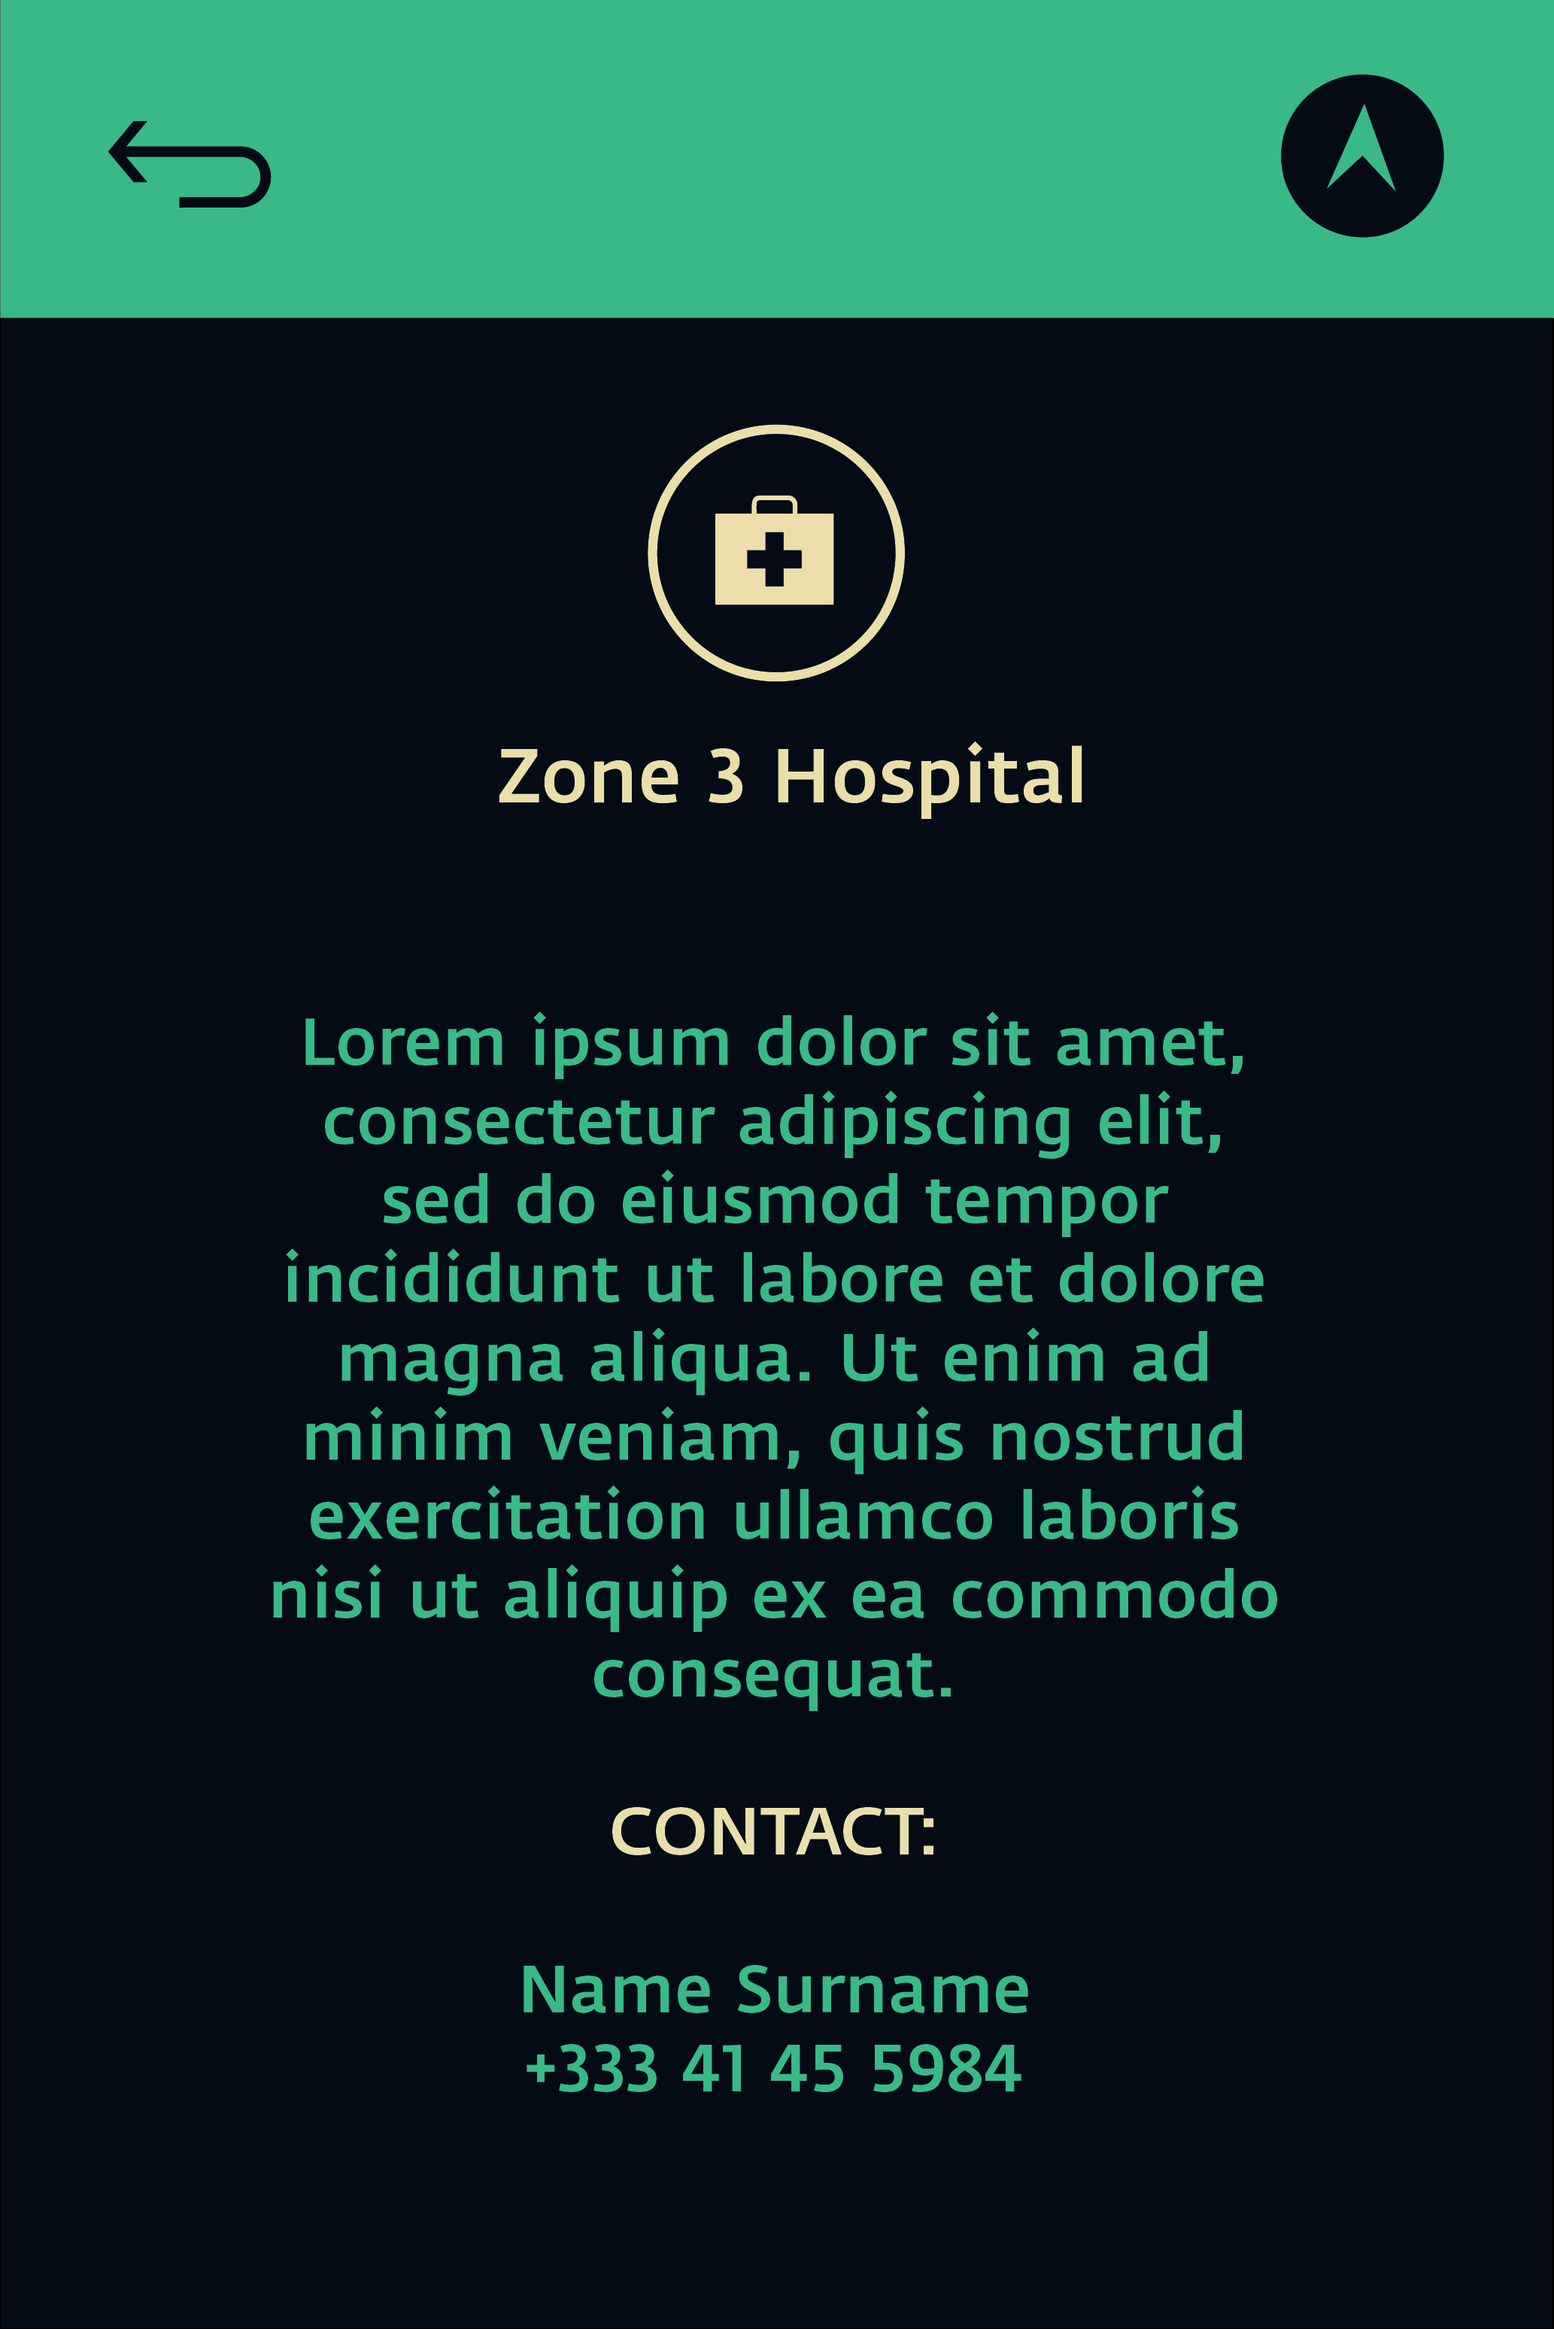
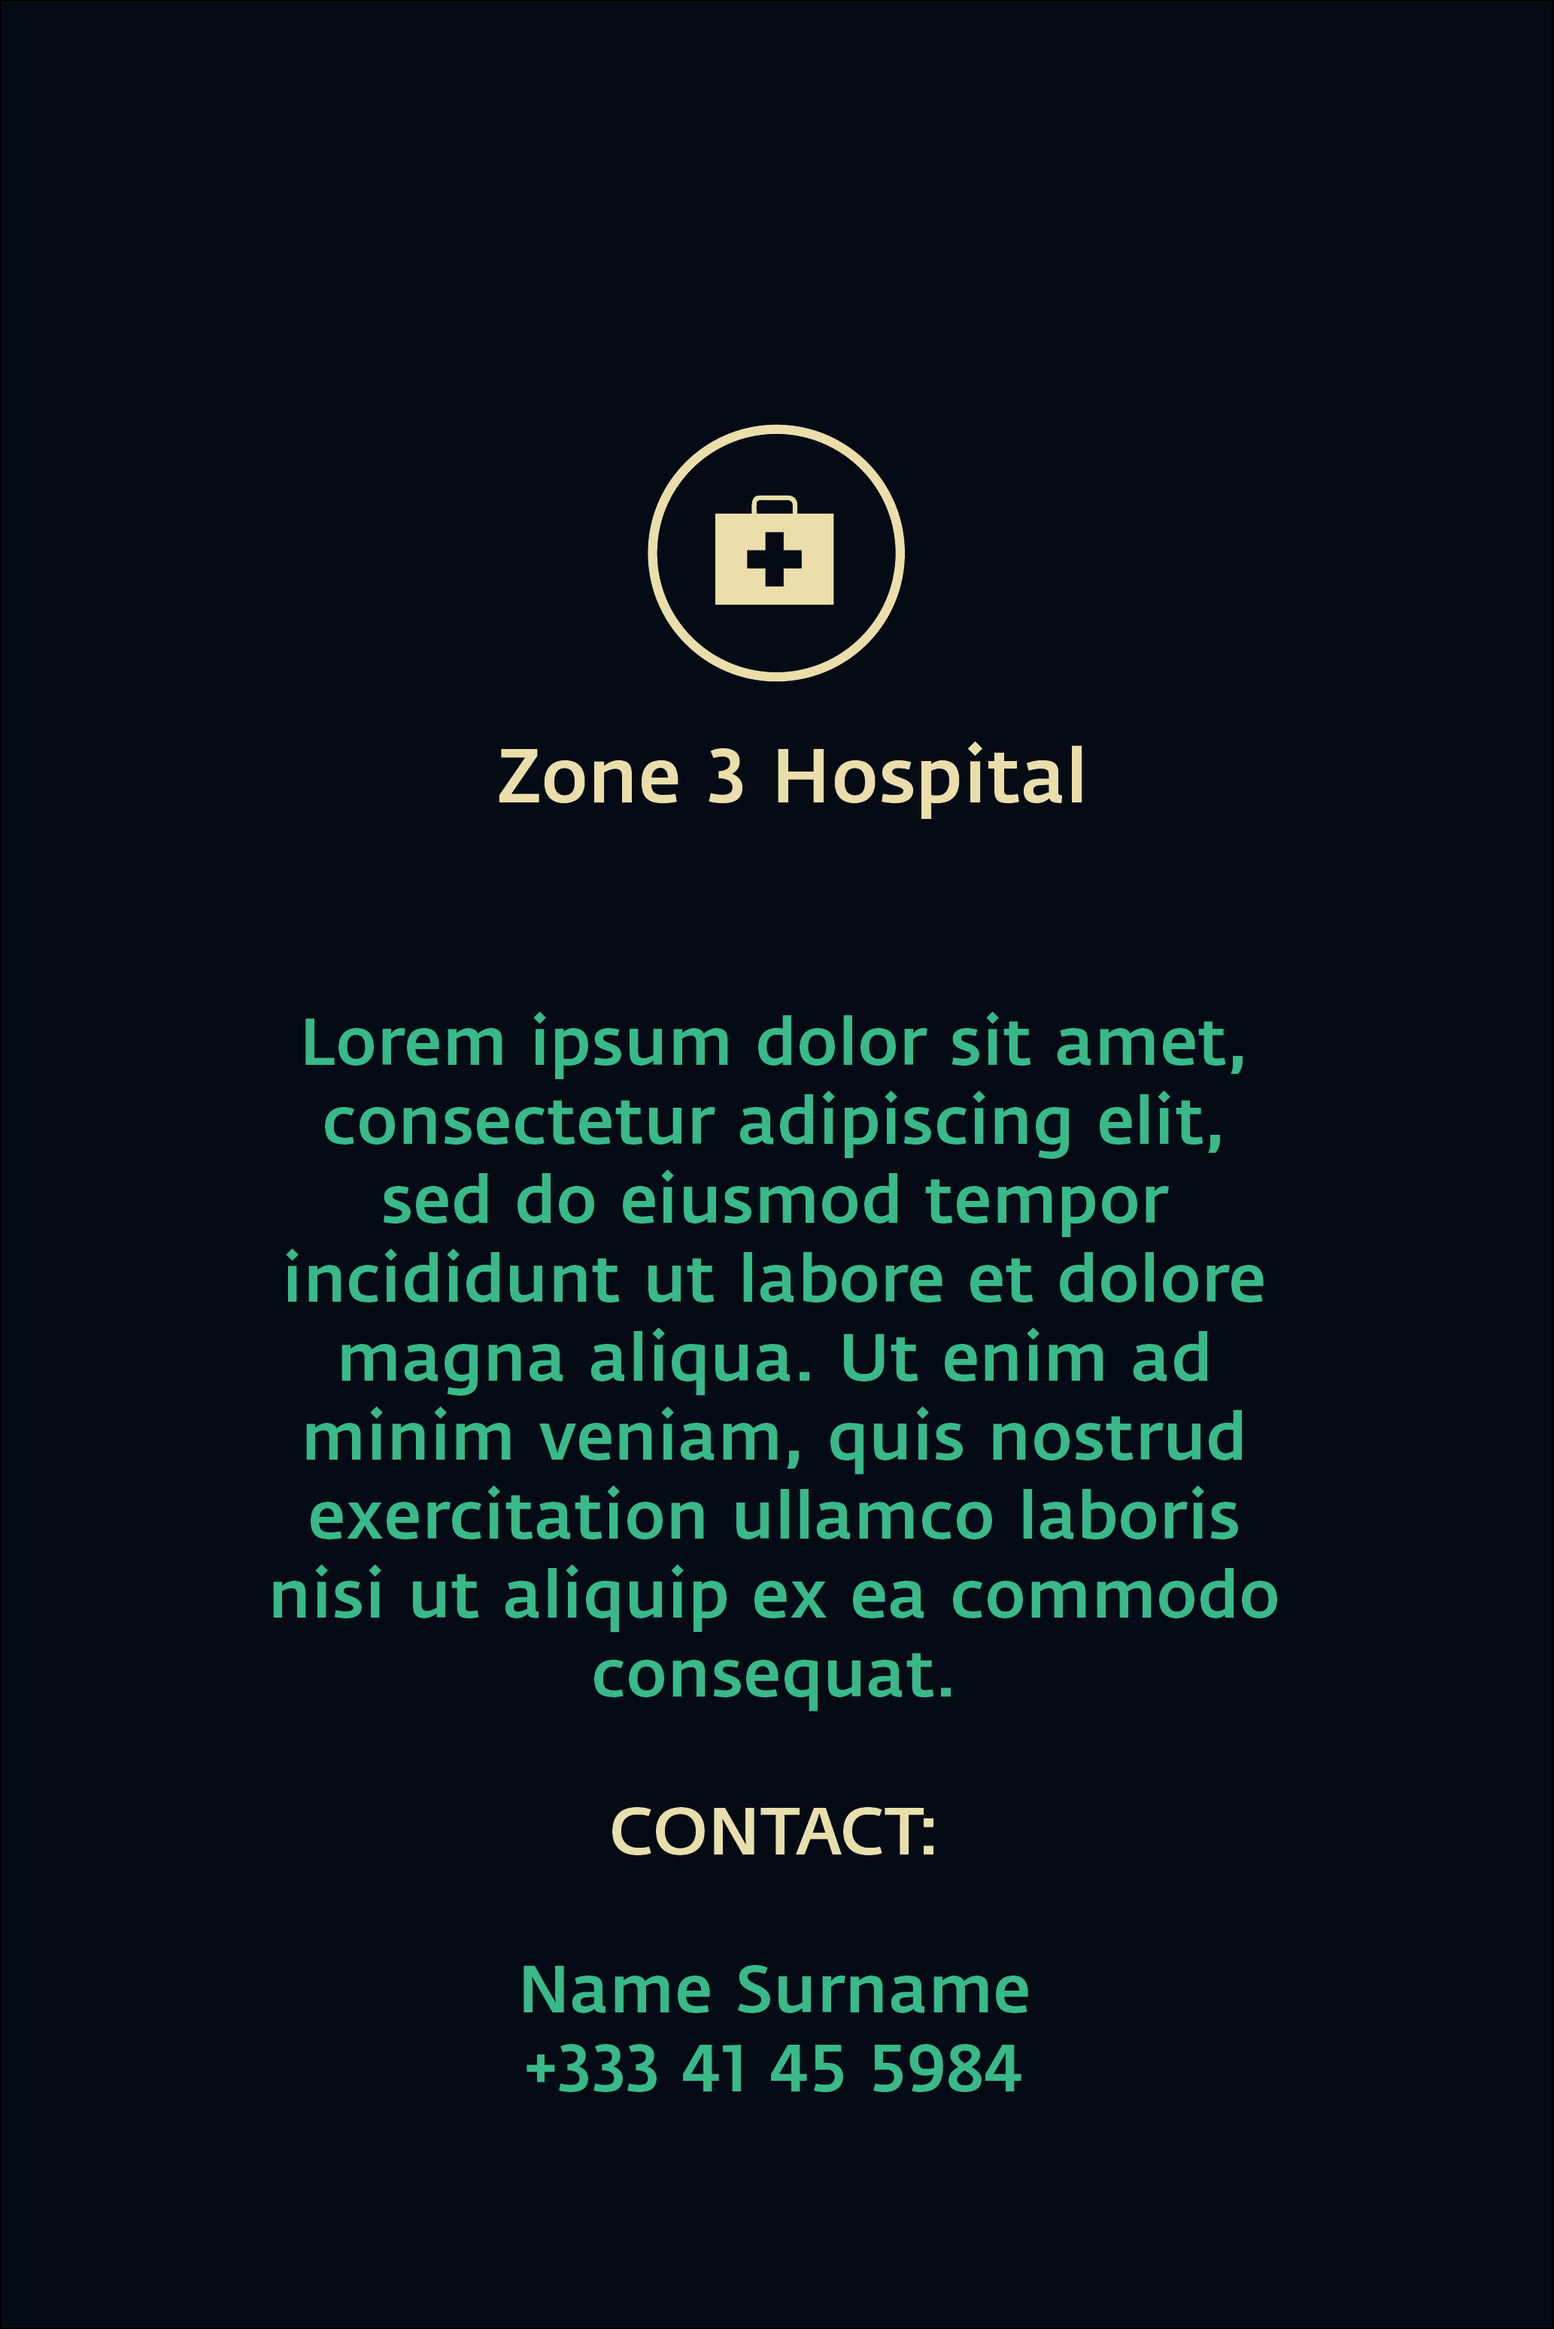
lookin good fellas

Changed region(s): [[0.0, 0.0, 1.0, 0.155]]

diff --git a/src/locus-app/src/pages/services/services.ts b/src/locus-app/src/pages/services/services.ts
@@ -15,13 +15,13 @@ import { ServicesDetailPage, CategoryPage} from '../pages';
 })
 export class ServicesPage {
 
-  hospitals = [{team: 'Hospital A', icon: "medkit"},
-        {team: 'Hospital B', icon: "medkit"}];
-  schools = [{team: 'School A',icon: "school"},
-	    {team: 'School B',icon: "school"},
-	    {team: 'School C',icon: "school"}];
-  stores = [{team: 'Shop A',icon: "cart"}, 
-	    {team: 'Shop B',icon: "cart"}];
+  hospitals = [{team: 'Zone 1', icon: "medkit"},
+        {team: 'Zone 3', icon: "medkit"}];
+  schools = [{team: 'Zone 5',icon: "school"},
+	    {team: 'Zone 1',icon: "school"},
+	    {team: 'Zone 3',icon: "school"}];
+  stores = [{team: 'Zone 7B',icon: "cart"}, 
+	    {team: 'Champs-des-Elysees',icon: "cart"}];
   organizations= [{team: 'Red Cross Site',icon: "globe",color: "red"},	
 	     {team: 'FCA Site',icon: "globe",color: "orange"},
       {team: 'Relief International Site',icon: "globe",color: "blue"}];
@@ -44,13 +44,13 @@ export class ServicesPage {
   listTapped(item) {
   console.log('**item:', item);
       if (item.name=="Hospitals") {
-        this.nav.push(CategoryPage, {"list": this.hospitals})
+        this.nav.push(CategoryPage, {"list": this.hospitals,"name": "Hospitals"})
       } else if (item.name=="Schools") {
-        this.nav.push(CategoryPage, {"list": this.schools})
+        this.nav.push(CategoryPage, {"list": this.schools,"name": "Schools"})
       } else if (item.name=="Stores") {
-        this.nav.push(CategoryPage, {"list": this.stores})
+        this.nav.push(CategoryPage, {"list": this.stores,"name": "Stores"})
       } else if (item.name=="Organizations") {
-        this.nav.push(CategoryPage, {"list": this.organizations})
+        this.nav.push(CategoryPage, {"list": this.organizations,"name": "Organizations"})
       }
   }
 

diff --git a/src/locus-app/src/pages/services/services.html b/src/locus-app/src/pages/services/services.html
@@ -1,12 +1,14 @@
 
 
-<ion-header class="header" color="primary">
-  <ion-navbar class="header" color="primary">
+<ion-header class="header123" color="primary">
+  <ion-navbar class="header123" color="primary">
     <button menuToggle>
       <ion-icon name="menu"></ion-icon>
       </button>
       <ion-title dark class="title123" color="dark" text-color="dark">
+      <p dark color="dark">
       Categories
+      </p>
       </ion-title>
   </ion-navbar>
   
@@ -15,12 +17,15 @@
 
 <ion-content padding>
   <ion-list>
-  <button ion-item *ngFor="let item of categories" (click)="listTapped(item)">
-    <ion-icon class="firstListIcon" [name]="getIcon(item)"></ion-icon>
+  <button ion-item class="float-left" *ngFor="let item of categories" (click)="listTapped(item)">
+    <ion-icon class="firstListIcon float-center" [name]="getIcon(item)"></ion-icon>
       {{item.name}}
        <ion-icon class="float-right" name="arrow-forward"></ion-icon> 
     </button> 
 </ion-list>
+
+
+
 </ion-content>
 
 

diff --git a/src/locus-app/src/pages/category/category.html b/src/locus-app/src/pages/category/category.html
@@ -1,24 +1,30 @@
-<ion-header>
-  <ion-navbar primary>
+
+<ion-header class="header123" color="primary">
+  <ion-navbar class="header123" color="primary">
     <button menuToggle>
       <ion-icon name="menu"></ion-icon>
       </button>
-  </ion-navbar>
-  <ion-toolbar secondary>
-
-    <ion-title>
-      Stuff
+      <ion-title dark class="title123" color="dark" text-color="dark">
+      <p dark color="dark">
+      {{this.name}}
+      </p>
       </ion-title>
-    </ion-toolbar>
+  </ion-navbar>
+  
 </ion-header>
+
+
 
 
 <ion-content padding>
   <ion-list>
   <button ion-item *ngFor="let item of this.list" (click)="categoryTapped()">
-    <ion-icon [name]="getIcon(item)"></ion-icon>
+    <ion-icon class="firstListIcon" [name]="getIcon(item)"></ion-icon>
       {{item.team}}
        <ion-icon class="float-right" name="arrow-forward"></ion-icon> 
     </button> 
 </ion-list>
 </ion-content>
+
+
+

diff --git a/src/locus-app/src/pages/services/services.scss b/src/locus-app/src/pages/services/services.scss
@@ -1,16 +1,32 @@
 .float-right {
     float: right;
+    position: relative;
+    top: 13px;
 }
 .firstListIcon{
-    font-size: 60px;
+    font-size: 27px;
     color: #EFDDB8;
+    margin: 0 8px;
+    position: relative;
+    top: 4px;
+    padding: 5px;
 }
-.header{
-    color:  #32908F;
+.header123{
+  color: #11151C; 
     background-color: #32908F;
     border-color:  #32908F;
+
 }
 .title123{
     color: #11151C; 
-    
+
+}
+.float-center{
+    float: center;
+}
+.float-middle{
+    float: middle;
+}
+.float-left{
+    float: left;
 }

diff --git a/src/locus-app/src/pages/services-detail/services-detail.html b/src/locus-app/src/pages/services-detail/services-detail.html
@@ -1,9 +1,16 @@
-<ion-header>
-  <ion-navbar primary>
+
+<ion-header class="header123" color="primary">
+  <ion-navbar class="header123" color="primary">
     <button menuToggle>
       <ion-icon name="menu"></ion-icon>
       </button>
+      <ion-title dark class="title123" color="dark" text-color="dark">
+      <p dark color="dark">
+      HOSPITAL: Zone 3
+      </p>
+      </ion-title>
   </ion-navbar>
+  
 </ion-header>
 
 <ion-content padding class="background-info">

diff --git a/src/locus-app/src/theme/theme-locus.scss b/src/locus-app/src/theme/theme-locus.scss
@@ -49,7 +49,7 @@ $tabs-ios-tab-padding-bottom:    10px !default;
 $tabs-ios-tab-text-font-size-side-icon: 50px !default;
 $tabs-icon-size:              30px !default;
 
-$list-text-color:            $text-color !default;
-$list-background-color:      #242424 !default;
+$list-text-color:            #EFDDB8 !default;
+$list-background-color:      #11151C !default;
 $list-border-color: #000 !default;
 

diff --git a/src/locus-app/src/pages/category/category.ts b/src/locus-app/src/pages/category/category.ts
@@ -16,9 +16,11 @@ import { ServicesDetailPage} from '../pages';
 export class CategoryPage {
 
   list: any;
+  name: any;
 
   constructor(public navCtrl: NavController, public navParams: NavParams) {
-    this.list = this.navParams.get("list"); 
+    this.list = this.navParams.get("list");
+     this.name = this.navParams.get("name");
     console.log('**nav params:', this.navParams);
   }
 

diff --git a/src/locus-app/src/pages/category/category.scss b/src/locus-app/src/pages/category/category.scss
@@ -1,3 +1,24 @@
-page-category {
+.float-right {
+    float: right;
+    position: relative;
+    top: 13px;
+}
+.firstListIcon{
+    font-size: 27px;
+    color: #EFDDB8;
+    margin: 0 8px;
+    position: relative;
+    top: 4px;
+    padding: 5px;
+}
+
+.header123{
+  color: #11151C; 
+    background-color: #32908F;
+    border-color:  #32908F;
+
+}
+.title123{
+    color: #11151C; 
 
 }

diff --git a/src/locus-app/src/pages/services-detail/services-detail.scss b/src/locus-app/src/pages/services-detail/services-detail.scss
@@ -1,0 +1,19 @@
+.header123{
+  color: #11151C; 
+    background-color: #32908F;
+    border-color:  #32908F;
+
+}
+.title123{
+    color: #11151C; 
+
+}
+.float-center{
+    float: center;
+}
+.float-middle{
+    float: middle;
+}
+.float-left{
+    float: left;
+}
